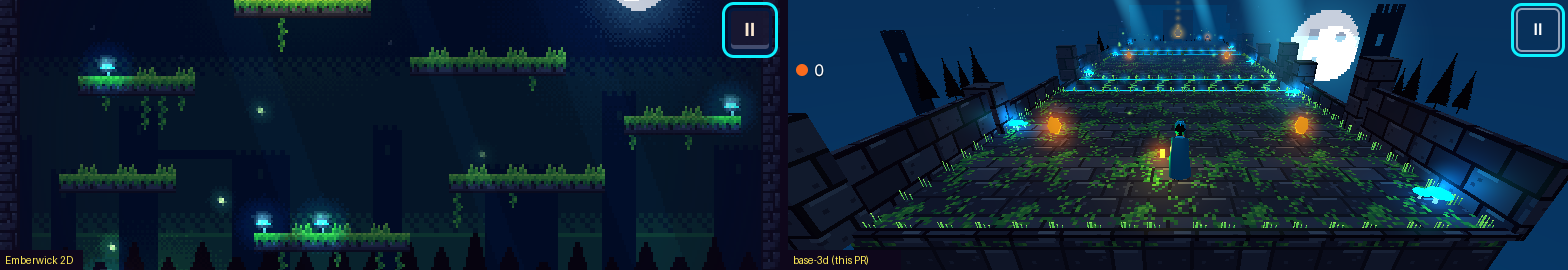
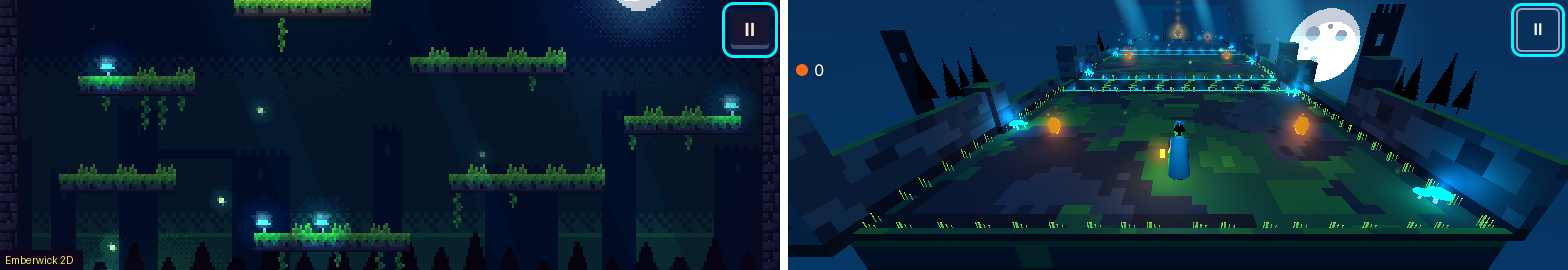
docs(base-3d): same-moment images, the 3D reference study and provenance for the art pass
Recaptured 2D/3D pairs, the "what we took and why" section in the spike, a
provenance row for the study, the spec's lane-2 revision note and the plan log.

Claude-Session: https://claude.ai/code/session_01QYLU1iRHT7V45nkE1aT4Lg

diff --git a/docs/evidence/owner-visual/2026-11-01-base-3d-art-pass/README.md b/docs/evidence/owner-visual/2026-11-01-base-3d-art-pass/README.md
@@ -6,12 +6,16 @@ Spec: [2026-11-01-base-3d-art-direction.md](../../../superpowers/specs/2026-11-0
 [`../2026-11-01-base-3d-art-direction/`](../2026-11-01-base-3d-art-direction/).
 
 Each image is Emberwick (2D, left) beside base-3d (this PR, right) at the same viewport. Captured in headless Chromium
-on SwiftShader from production builds (`vite build`) served statically; WebGL2.
+on SwiftShader from production builds (`vite build`) served statically; WebGL2. Recaptured on 2026-11-01 by lane 2 at
+`5287e089` (the 3D half; the 2D half is the earlier capture, Emberwick is unchanged): the view drawn at most 360 px tall
+and nearest-upscaled, the stone coloured per vertex in palette cells, Wick's back fill, the 128 px moon and the blue
+ambient. The capture script (`capture.mjs`: build, serve, New game, wait for tick 5, optional key hold or pause, 1.5 s,
+screenshot) and the pairing script (`pair.py`) are in the lane's scratchpad, not committed.
 
 | File | Viewport | 2D | 3D |
 |---|---|---|---|
 | `01-start.png` | 1280×720 | New game, Wick at the spawn | New game, Wick at the spawn |
-| `02-channel.png` | 1280×720 | Wick at the start (the held jump did not register headless, so this is the start again) | W held 1.7 s: Wick walking toward the first lava channel |
+| `02-channel.png` | 1280×720 | Wick at the start (the held jump did not register headless, so this is the start again) | W held 1.7 s: Wick walking toward the first channel |
 | `03-ember-pickup.png` | 1280×720 | Wick touches the one ember: the end screen ("The ember is yours") | Spawned on the first ember: just taken, the HUD reads 1 |
 | `04-goal.png` | 1280×720 | Spawned beside the ember | Spawned 2.6 m before the goal ember, the moon in the far arch |
 | `05-pause.png` | 1280×720 | Pause panel | Pause panel |
@@ -34,18 +38,16 @@ blue with hood points, a cool rim light over his hood and a warm lantern pool. T
 
 ## Where 3D still falls short (honestly)
 
-- **Saturation.** The 2D frame is a richer mid-blue; the 3D stone still reads grey-blue between the pools of light.
-- **Stone on screen.** The 25° camera looks mostly at the floor, so stone covers more of the frame than the 2D's
-  platforms do, even with the grass and moss.
-- **Wick from behind.** His eyes and face glow face away from the camera most of the time; the hood points read small.
-- **No bloom.** Glow is additive cards (as Emberwick fakes it); there is no real bloom filter (the spike's limits).
-- **Near-field noise.** Close to the camera the 32 px moss reads as busy specks.
+- **Floor share.** The 25° camera still looks mostly at the platform tops. They now read as Emberwick's moss and
+  blue-violet stone in palette cells, not noise, but they fill more of the frame than the 2D's thin grass strips do.
+- **Wick's face.** From behind he reads in his cloak's blue now; his face and eyes still face away most of the time.
+- **The pause button over the moon** (`04`): the button's white icon is lost where the moon sits behind it.
+- **No bloom.** Glow is additive cards (as Emberwick fakes it); there is no bloom filter yet.
 - **2D at phone sizes** crops its bottom row, so Wick is off-screen in `06` and `08` (Emberwick's own framing).
-- **G3-x over budget.** The portrait journey G3-x fails at 31.6–31.7 s (three runs) of its 30 s budget with the
-  full-frame view; the same scene letterboxed passes at 26.6 s. The full-frame view resizes on each rotation. The budget
-  is not raised; this is the coordinator's call. A frame of play itself costs about 115 ms on this software renderer
-  (it was about 190 ms before the island, against #373's 90 ms).
 - **Not measured:** WebGPU (no WebGPU headless here), the GPU runner's frame budget, real devices, hearing the sounds.
+
+G3-x passes with the cap: 18.0, 18.1 and 11.3 s (three runs) and 11.7 s in the full base-3d run, against 32.3 (fail),
+32.2 (fail) and 23.5 s for the same scene uncapped on the same container. The 30 s budget is unchanged.
 
 ## Gates
 

diff --git a/docs/spikes/base-3d-art.md b/docs/spikes/base-3d-art.md
@@ -74,3 +74,23 @@ must drop the mushroom lights.
 `docs/evidence/owner-visual/2026-11-01-base-3d-art-direction/mockup-{start,channel,ember,goal}.png`: Emberwick's
 gameplay screenshot, #373's current 3D frame at the same camera (not for `ember`), and the spike's frame. Wick in the
 spike is a stand-in (cone and hood); the game keeps its procedural figure.
+
+## What we took from the 3D reference game (art pass lane 2, 2026-11-01)
+
+The Owner: "The pixi 3D game looks amazing, so we can pull insights from that" and "We used the vertex coloring only
+that helped dramatically". The reference game is the Owner's own `@pixi/3d` adventure (recorded in
+`docs/provenance/sources.md`). We read its look profile, its mesh builder, its light and its framebuffer handling; no
+code was copied. What we took, and why:
+
+| Area | What the reference does | What base-3d does now, and why |
+| --- | --- | --- |
+| Surface colour | Surfaces are cut on a half-metre grid so light and colour can sit on vertices; textures are small, matte and posterised to one palette | Vertex colour only: every stone surface is cut into cells (0.25 m on tops and walls, 0.5 m down the sides) and each cell is one Endesga 64 entry (`views/stone.ts`, render-pixi3d `cellCube`). Smooth Gouraud blends read as blur against Emberwick's pixel art, so cells are flat (one colour each), which is the reference's posterised palette carried to geometry. The noisy 32 px tiled textures are gone |
+| Light in steps | Light snaps to steps of 0.1 (an old engine's shade table), so pools read as bands | Colour steps along fixed palette ladders (stone 14 → 11, moss 38 → 35): a platform's edge one rung darker, the sides in bands. The lamps stay real-time point lights (the lantern and the embers move, and the bake takes static lamps only) |
+| Ambient | A cool ambient and a low cool fill on upright surfaces keep walls legible between pools | The ambient sky is a saturated blue (41): under Emberwick's grey-blue (11) the 3D stone read grey; now it keeps the 2D frame's blue |
+| The player's light | The player's carried flame lights her (a share of 0.4), and she must read against the ring around her by 1.1× in brightness or outline | Wick carries his lantern, a stronger cool rim over the hood (2.2) and a cool fill on his back, so his cloak reads in the sprite's blue from behind |
+| Resolution | The framebuffer is capped at 640 × 480 and reaches the screen at whole device pixels | `maxInternalHeight: 360`: the view draws at most 360 px tall at resolution 1 and is nearest-upscaled, which also brings G3-x under its budget |
+| Haze | Linear haze anchored past the camera's focus, so the far end sinks into a tinted colour, never black | Kept: the night's fog already runs from 9 to 30 m into the deep blue the ruin floats in |
+| Glow | Bloom only over set thresholds (white 0.88, warm 0.45) | Not taken yet: AF has no bloom pass (GLSL and WGSL pair needed); additive halo cards stand in (follow-up) |
+| Props and figures | Matte props, a saturation cap, figures with a dark outline | Matte stone (shininess 4); the figures' outline is not taken (procedural figures, a follow-up if Wick still blends in) |
+| Overlays under no-eval | Post filters as hand-written GLSL programs | Not taken: AF's filters must be GLSL + WGSL pairs (ADR 0002) |
+

diff --git a/docs/provenance/sources.md b/docs/provenance/sources.md
@@ -31,6 +31,7 @@ STANDALONE.2 extends this file to every earlier extraction; until then it holds 
 | Rewritten, M6.2 (automata-plus#33) | `debug`: the `window.game` driver and `?debug` handling in `src/main.ts` and the feel board in `src/feel/board.ts` at `92e6704`, rewritten as a build-gated overlay, panels and a generic driver (`debug-carry.ts` is not ported: a game concern) |
 | Rewritten, M6.10b (automata-plus#34) | `audio-synth` offline render and checks: `scripts/pipeline/audio-lib.ts` (WAV, BS.1770-4 loudness, true peak, click detector), `scripts/pipeline/audio.ts` (render and check stages) and `src/audio/render.ts` and `board.ts` at `92e6704`, rewritten as a measure module, an offline render over the synth and mixer, an `audio` pipeline in Chromium and a debug panel; its legacy-parity, space-probe, sample-budget and music-loudness stages are not ported |
 | Rewritten, M6.11 (automata-plus#36) | `blockout` pipeline: `scripts/pipeline/blockout.ts` (stages, `import`), `blockout-lib.ts` (`validate`, `generate`, `freshness`, `importScene`) and `tests/blockout.test.ts` at `92e6704`, rewritten as `validate` (plain findings), `generate` (stamped `sector-map` and `nav-graph` TOML), a game-supplied `shots` command with a PNG legibility read, and `import` from content files; its puzzle-hotspot binding, lamp checks, `facility` command and python leveller are not ported |
+| Studied, base-3d art pass (2026-11-01, #377) | Read at `92e6704` (shallow clone, HEAD), no code copied: `src/render/look.ts` (the look profile: stepped light, cool ambient and wall fill, the player's carried light, figure outline and readability bounds, bloom thresholds, matte props), `crisp.ts` (the framebuffer capped at 640 × 480 and scaled by whole pixels), `sector-mesh.ts` (surfaces cut on a half-metre grid for per-vertex light), `indirect-light.ts` (`stepLight`), `fog.ts` (haze anchored past the camera's focus) and `docs/style/look.md`. What was taken and why: `docs/spikes/base-3d-art.md`, "What we took from the 3D reference game" |
 | Licence | No `LICENSE` file and no `license` field at `92e6704`: the Owner's own private repository, extracted on the Owner's direction (2026-10-11) |
 
 ### The arcade source

diff --git a/docs/superpowers/specs/2026-11-01-base-3d-art-direction.md b/docs/superpowers/specs/2026-11-01-base-3d-art-direction.md
@@ -35,6 +35,14 @@ EDS.9) on main for the roll clip.
 
 ## 2. The 2D scene, element by element, and its 3D counterpart
 
+**Revision (2026-11-01, lane 2: vertex colour only):** no stone is textured any more. Platform tops, their sides,
+the walls, pillars, lintel and plinth are cut into cells (0.25 m, 0.5 m down the island sides) and each cell is one
+palette entry (`views/stone.ts`): moss 38–35 in patches over stone 13/12, a rung darker within 0.6 m of an edge, banded
+sides, brick courses 12/11 with a mortar-dark foot (14) and mossy tops. §3.2's `WallOptions.surface` and `tiledCube`
+are replaced by `WallOptions.paint` and `cellCube`; the stone textures of §3.4 and §4.4 are gone. The ambient sky is 41,
+not 11; Wick carries a back fill; the moon is painted at 128 px; the view draws at most 360 px tall
+(`maxInternalHeight`). Why: `docs/spikes/base-3d-art.md`, "What we took from the 3D reference game".
+
 **Revision (2026-11-01, the coordinator's second review):** the ruin floats in the open night, so the sky (deep blue 40
 below the horizon, 52 above) fills the frame beside and below the room; walls are low fragments (bays 0.5–1.3 m, pillar
 stubs, a 0.9 m near parapet); silhouettes stand on far islands below; the moon is 16 m, high on the right; the channels

diff --git a/docs/superpowers/plans/2026-11-01-base-3d-art-pass.md b/docs/superpowers/plans/2026-11-01-base-3d-art-pass.md
@@ -57,7 +57,8 @@ Lane 2 (coordinator's order: the cap, vertex colour only, the study of the 3D re
   module, then on palette-only and flat cells); `night.test.ts` asserts painted walls and vertex-coloured stone with no
   texture (failed first). Dropped `paintStone` and the floor, side and wall textures. Cells: 0.25 m on the platform tops
   and walls, 0.5 m down the island sides. New token `mossShade` (38).
-- [ ] 13. Study of the 3D reference game; "what we took and why" in `docs/spikes/base-3d-art.md`; provenance.
+- [x] 13. Study of the 3D reference game (read at `92e6704`, no code copied); "What we took from the 3D reference game"
+  in `docs/spikes/base-3d-art.md`; a provenance row; the spec's lane-2 revision note.
 - [x] 14. The gaps. Wick: the hood rim 1.4 → 2.2 and a cool back fill (`BACK_FILL`, moonlight, 1.1 m up and 0.9 m
   behind him) so his cloak reads in the sprite's blue from behind (`lantern.test.ts` and the budget test changed first,
   seen failing; Wick now carries three lights, still inside the budget of 24). The moon painted at 128 px (test first).
